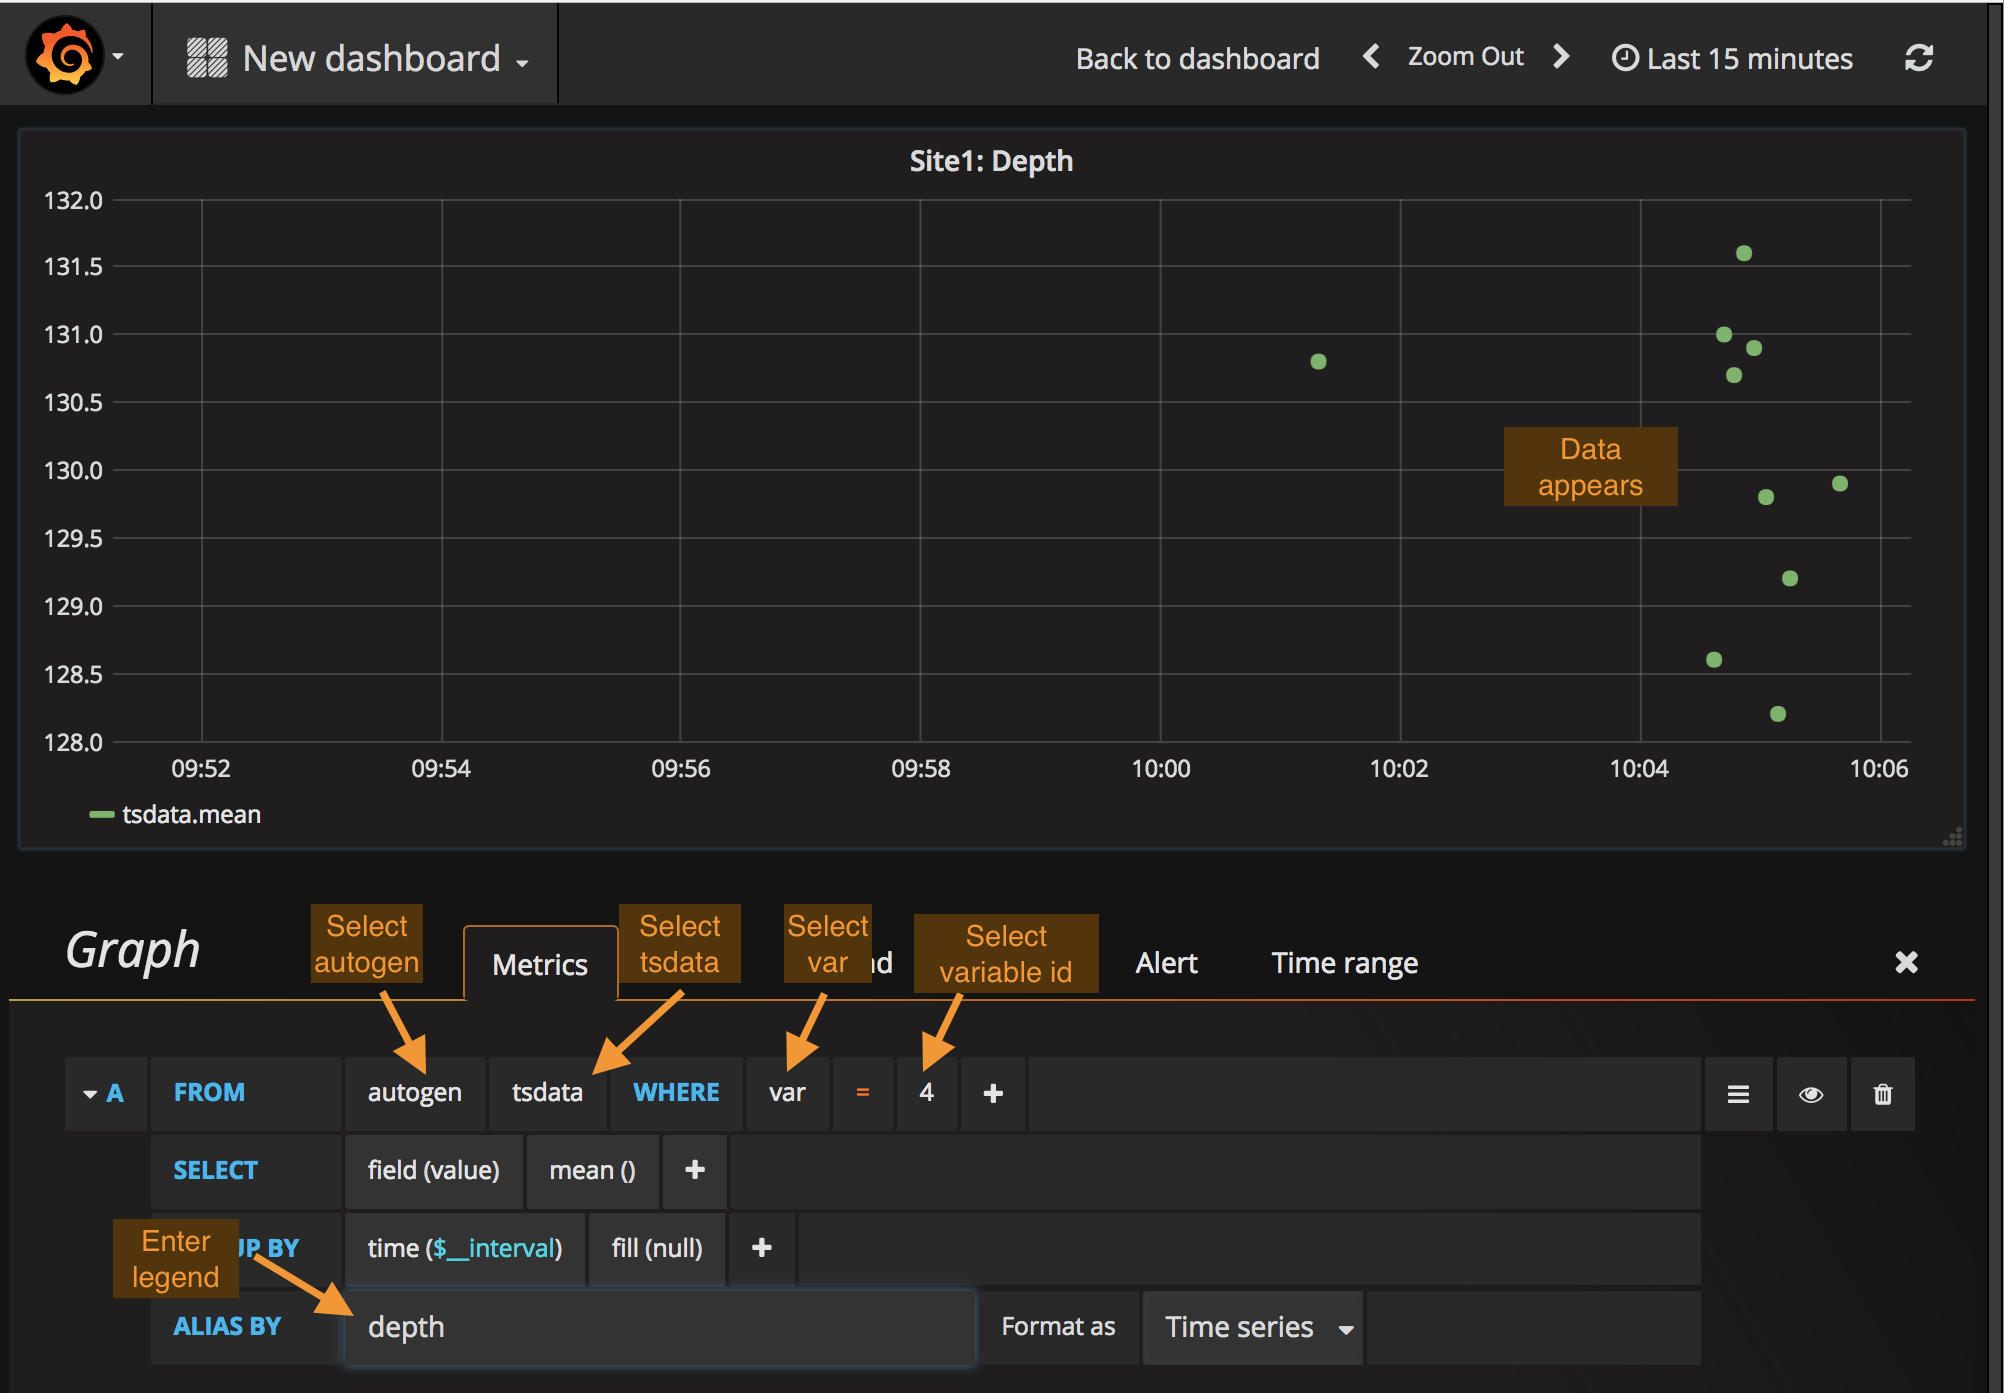
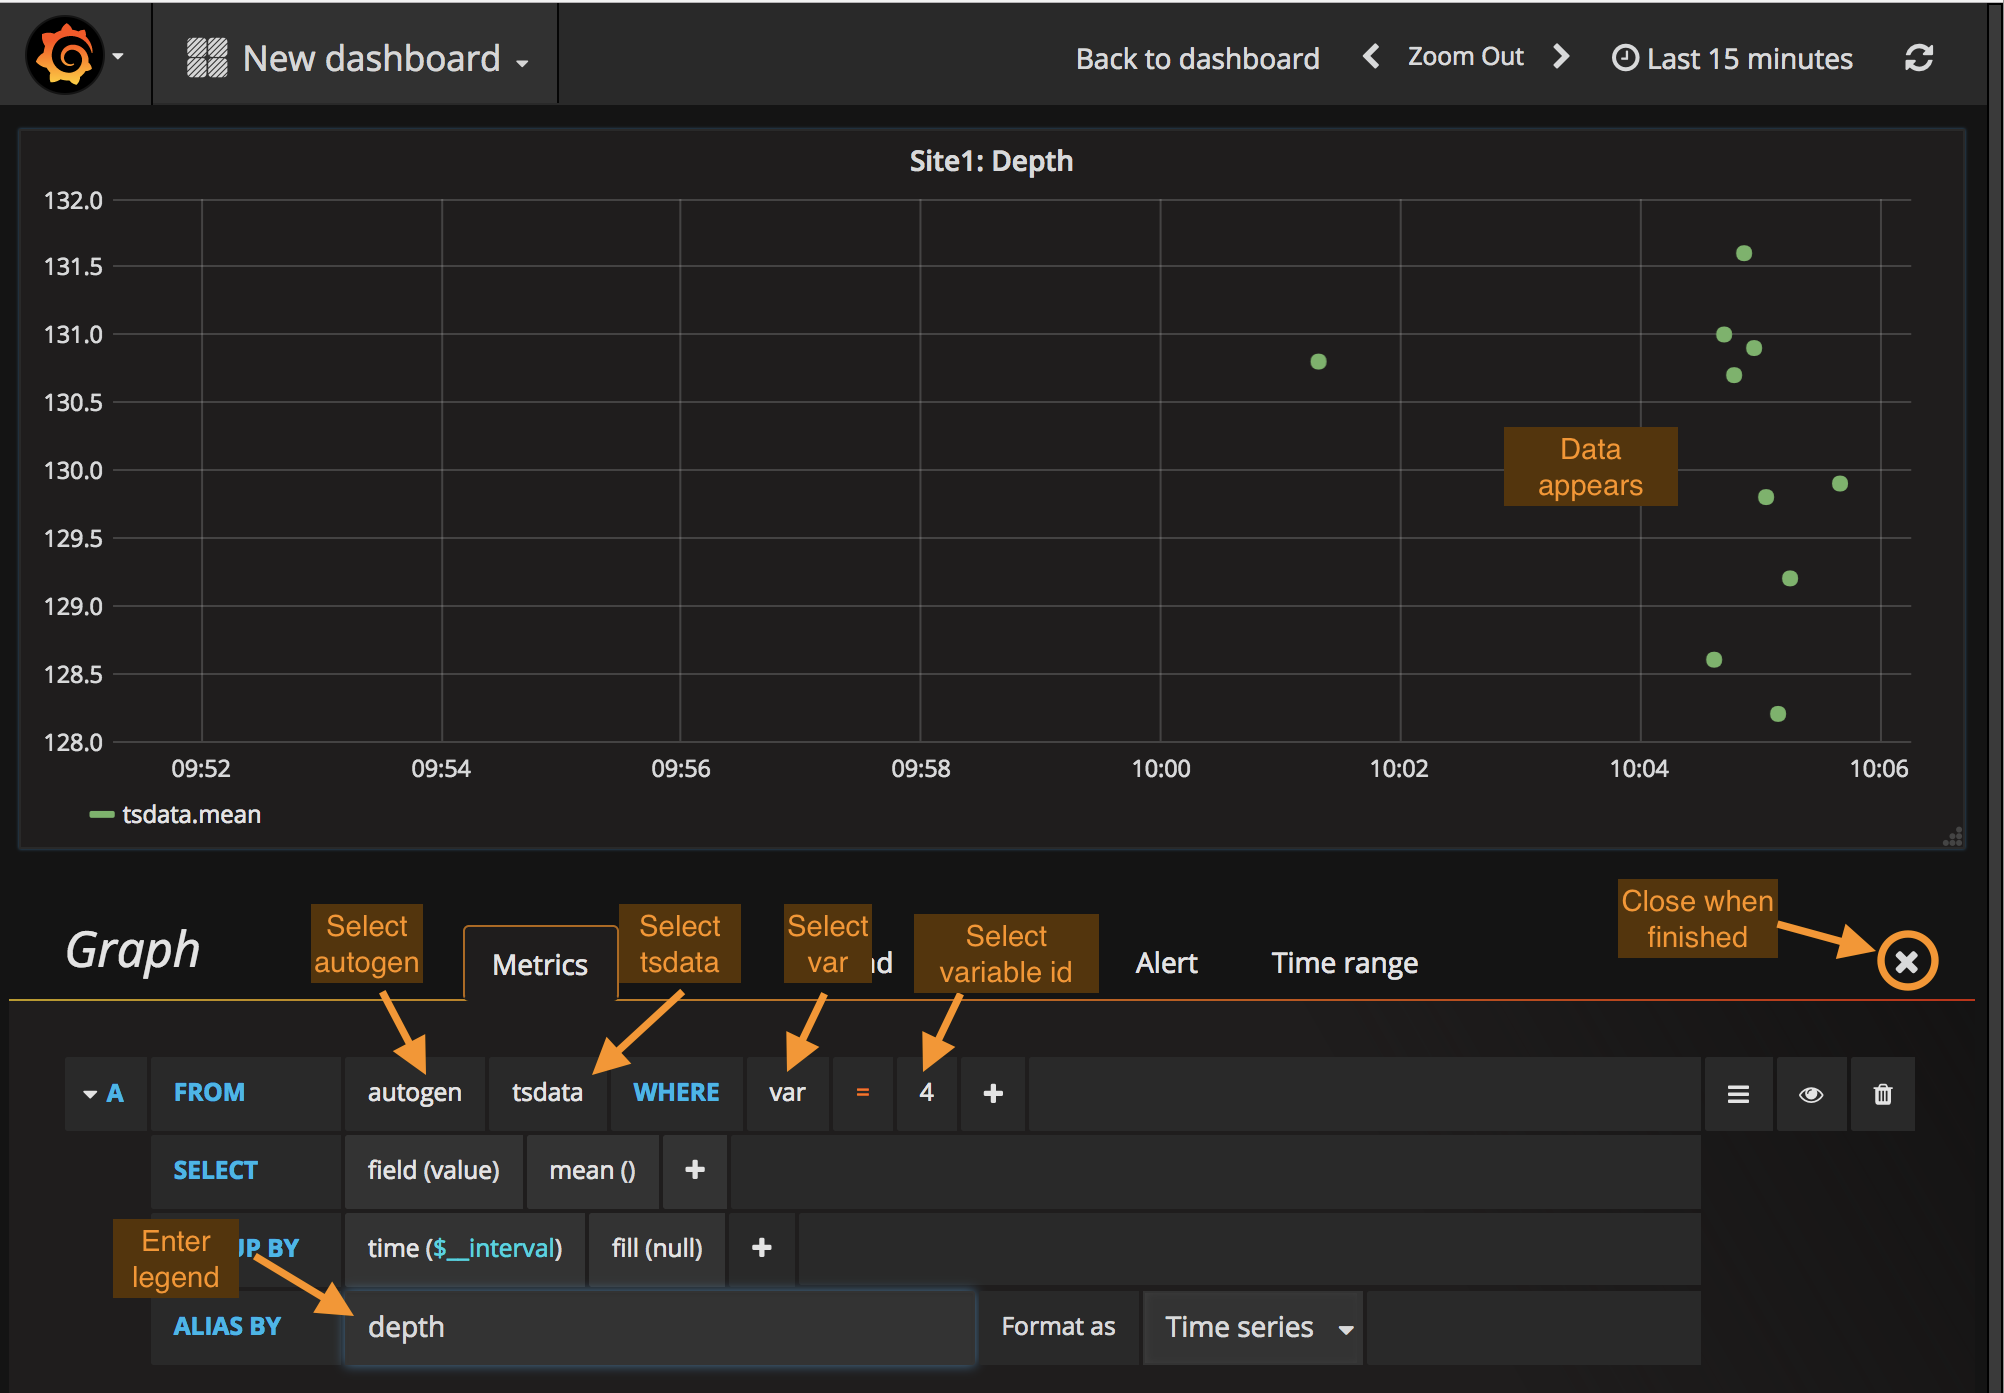
Updated.

Changed region(s): [[0.8044, 0.6174, 0.99, 0.71]]

diff --git a/concepts.md b/concepts.md
@@ -206,7 +206,7 @@ title: Concepts
         </ul>
         <br>
       </li>
-      <li><strong>Create a Datasource</strong>
+      <li><strong>Create a datasource</strong>
         <ul>
         <li>Add a data source
         <img class="img-responsive" src="images/grafsetup_030.png" alt="Dashboard">
@@ -228,9 +228,11 @@ title: Concepts
         <li> A new dashboard is created, with an empty panel. Add a graph by pressing Graph:
         <img class="img-responsive" src="images/grafsetup_051.png" alt="Dashboard">
         </li>
-        <li> Click in the bar at the top of the graph, to pop up a menu. Selet Edit:
+        <li> Click in the bar at the top of the graph, to pop up a menu:
         <img class="img-responsive" src="images/grafsetup_060.png" alt="Dashboard">
         <br>
+        </li>
+        <li> And select Edit:
         <img class="img-responsive" src="images/grafsetup_070.png" alt="Dashboard">
         </li>
         <br>
@@ -245,7 +247,7 @@ title: Concepts
         The variable identifiers are obtained from the CHORDS Instruments page:
         <img class="img-responsive" src="images/Identifiers.png" alt="Dashboard">
         <br>
-        Use the Metrics tab to select a variable from database:
+        Use the Metrics tab to configure the database access. Close when you see plotted data:
         <img class="img-responsive" src="images/grafsetup_095.png" alt="Dashboard">
         </li>
         </ul>
